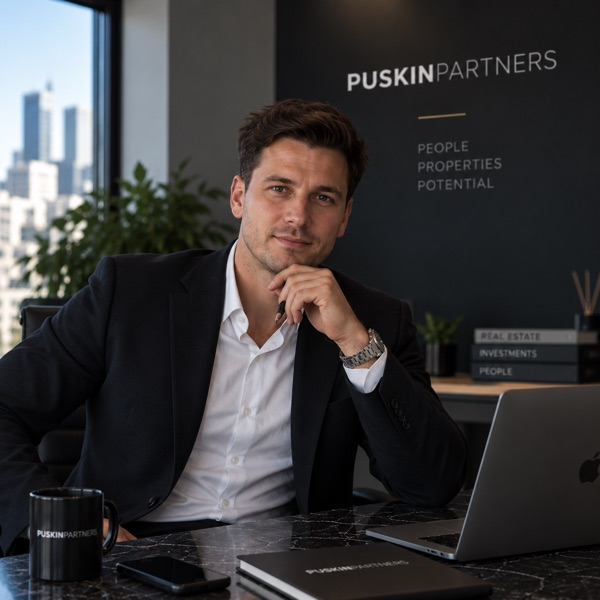
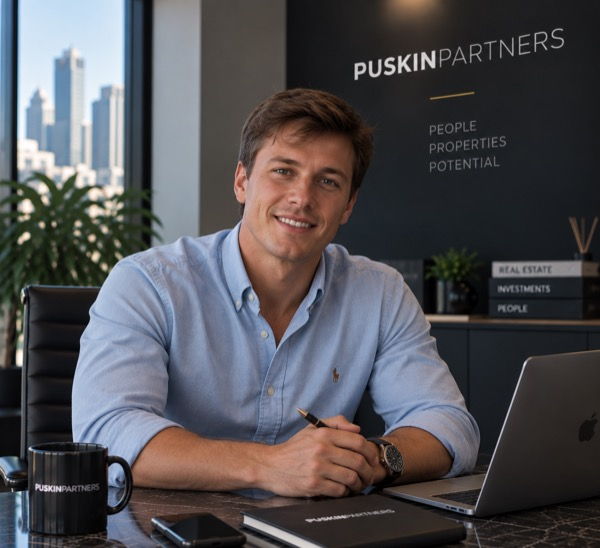
Update Adam Jelínek team photo, cache bust v=3

diff --git a/public/static/index.html b/public/static/index.html
@@ -718,7 +718,7 @@
         </div>
 
         <div class="team-card">
-          <div class="team-card-photo"><img src="/static/team/jelinek.jpg?v=2" alt="Adam Jelínek"></div>
+          <div class="team-card-photo"><img src="/static/team/jelinek.jpg?v=3" alt="Adam Jelínek"></div>
           <div class="team-card-name">Adam Jelínek</div>
           <div class="team-card-role">Interior &amp; Property Specialist</div>
           <p class="team-card-bio">Zaměřuje se na&nbsp;finální podobu nemovitostí, jejich funkčnost a&nbsp;prezentaci. Podílí se na&nbsp;výběru materiálů, vybavení a&nbsp;dispozičních řešení tak, aby každý projekt působil moderně a&nbsp;prakticky.</p>
